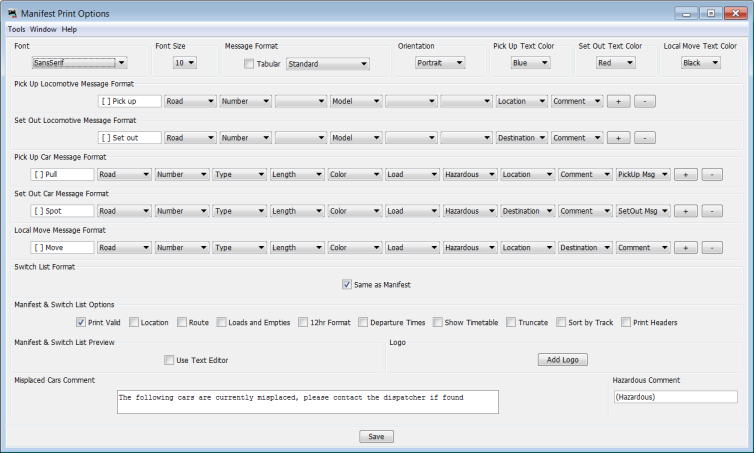
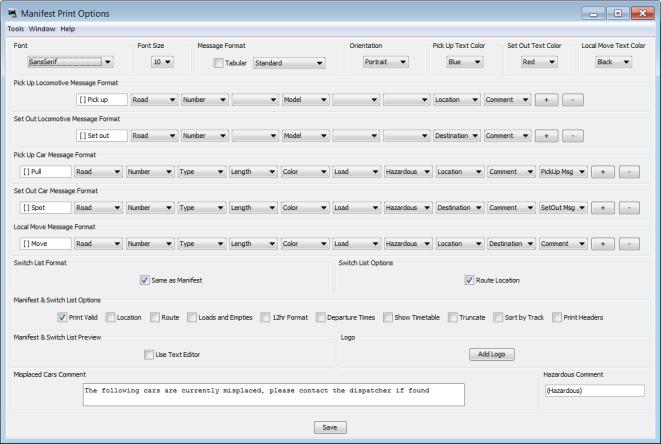
Update help

diff --git a/java/src/jmri/jmrit/operations/setup/PrintOptionFrame.java b/java/src/jmri/jmrit/operations/setup/PrintOptionFrame.java
@@ -4,10 +4,13 @@ package jmri.jmrit.operations.setup;
 
 import org.slf4j.Logger;
 import org.slf4j.LoggerFactory;
+
+import java.awt.Dimension;
 import java.awt.GridBagLayout;
 import java.io.File;
 import java.util.ArrayList;
 import java.util.List;
+
 import javax.swing.BorderFactory;
 import javax.swing.BoxLayout;
 import javax.swing.JComboBox;
@@ -241,6 +244,7 @@ public class PrintOptionFrame extends OperationsFrame {
 		pSwitchListOrientation.setLayout(new GridBagLayout());
 		pSwitchListOrientation.setBorder(BorderFactory.createTitledBorder(Bundle
 				.getMessage("BorderLayoutSwitchListOrientation")));
+		pSwitchListOrientation.setMaximumSize(new Dimension(8000, 100));
 		addItem(pSwitchListOrientation, switchListOrientationComboBox, 0, 0);
 		addItem(pSwitchListOrientation, new JLabel(" "), 1, 0); // pad
 		addItem(pSwitchListOrientation, new JLabel(" "), 2, 0); // pad
